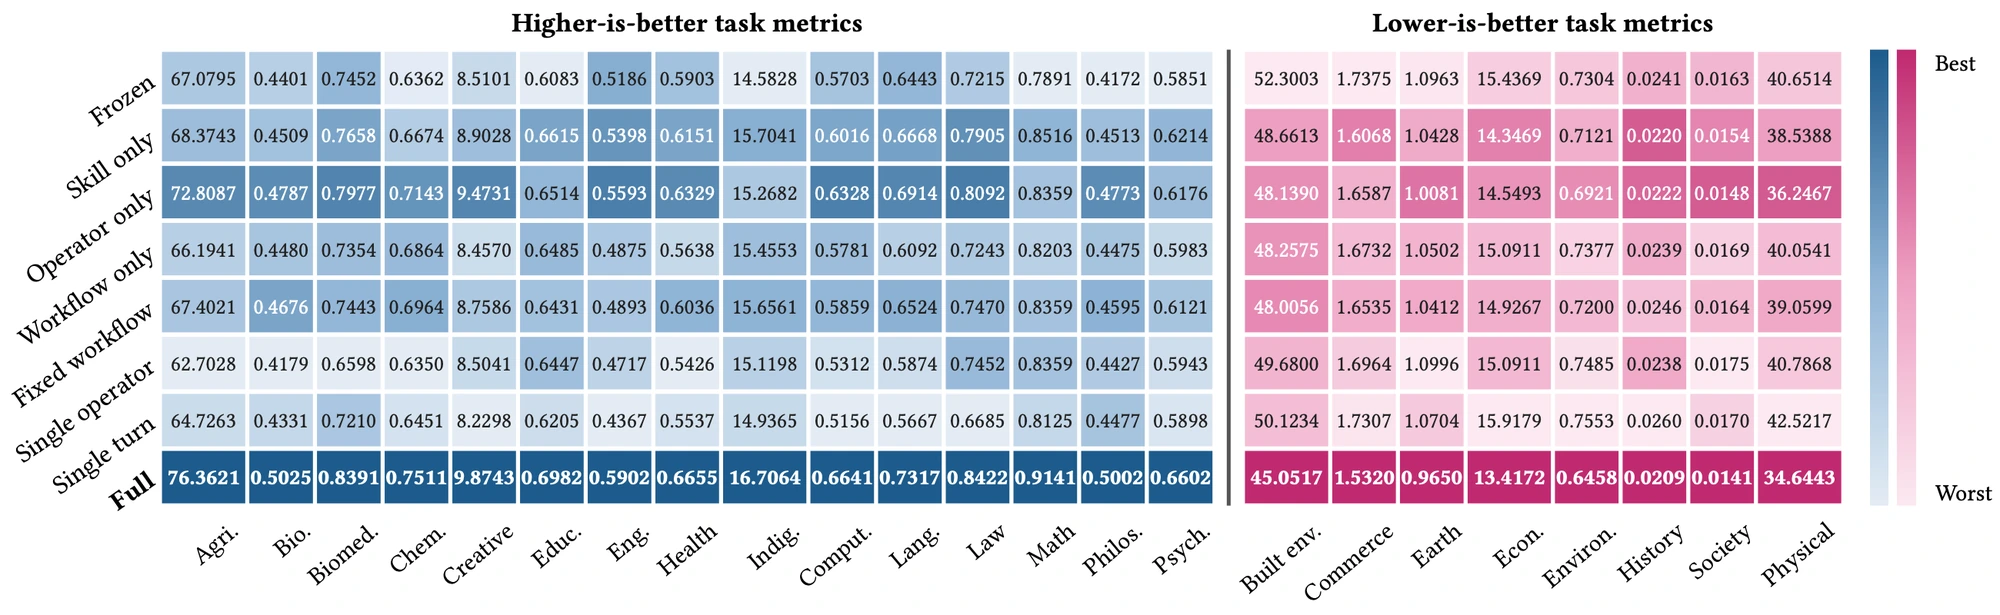
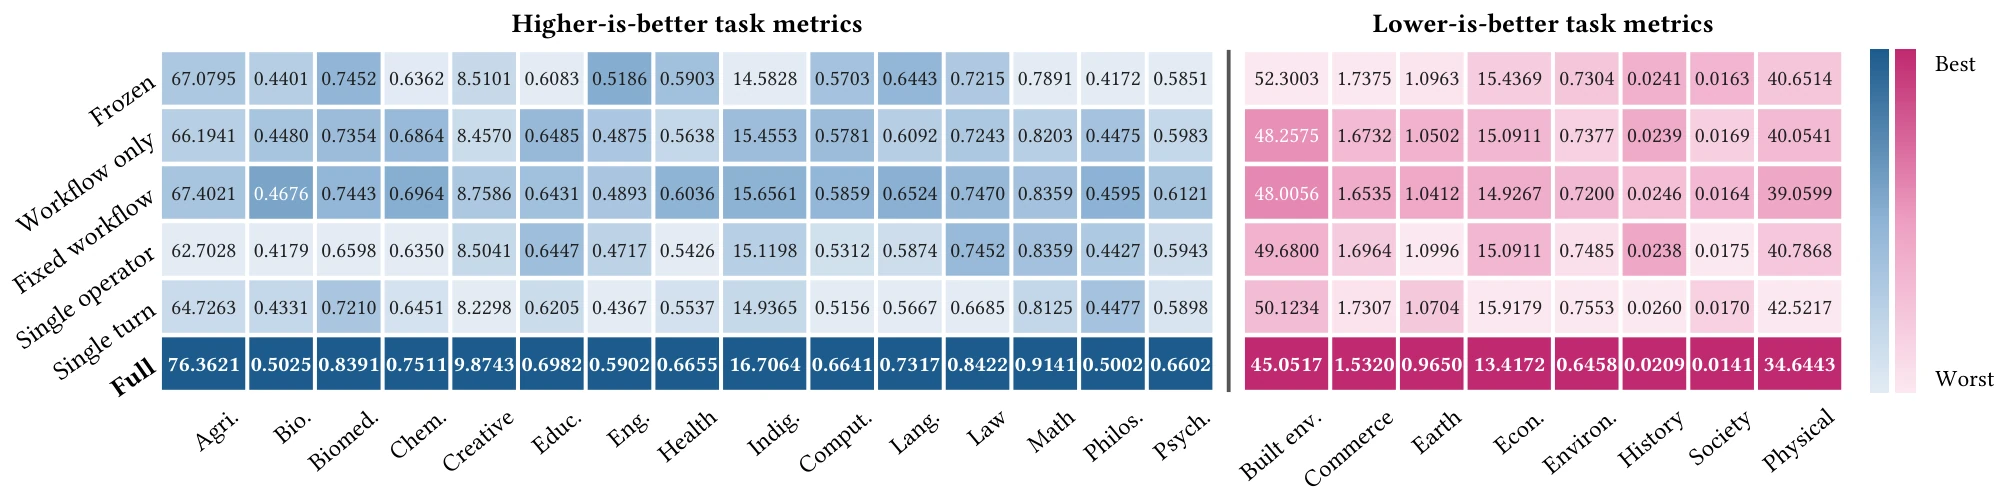
site: figures from the latest paper version

diff --git a/site/index.html b/site/index.html
@@ -176,12 +176,12 @@
     </div>
 
     <figure class="figure reveal">
-      <button class="zoom" data-src="img/ablation_heatmap.webp" aria-label="Enlarge figure"><img src="img/ablation_heatmap.webp" alt="Ablation heatmap across 23 disciplines" width="2000" height="615" loading="lazy"></button>
+      <button class="zoom" data-src="img/ablation_heatmap.webp" aria-label="Enlarge figure"><img src="img/ablation_heatmap.webp" alt="Ablation heatmap across 23 disciplines" width="2000" height="502" loading="lazy"></button>
       <figcaption>Task-native scores of the ablation variants across 23 disciplines; colours are normalised within each discipline (darker is better).</figcaption>
     </figure>
 
     <figure class="figure reveal">
-      <button class="zoom" data-src="img/mechanisms.webp" aria-label="Enlarge figure"><img src="img/mechanisms.webp" alt="Linked mechanism, workflow mechanics, reliability and cost, and promoted candidates" width="2600" height="741" loading="lazy"></button>
+      <button class="zoom" data-src="img/mechanisms.webp" aria-label="Enlarge figure"><img src="img/mechanisms.webp" alt="Linked mechanism, workflow mechanics, reliability and cost, and promoted candidates" width="2600" height="743" loading="lazy"></button>
       <figcaption>(f) Gain of the linked-mechanism variants on Commerce and Law. (g) Workflow mechanics: planner rounds, distinct Operators, feedback repair, checkpoint recovery and clean replay. (h) Hard-constraint pass rate against cost per OOD gain (ScienceClaw = 1), coloured by planner wall-time share. (i) Promoted candidates and promotion rate.</figcaption>
     </figure>
 
